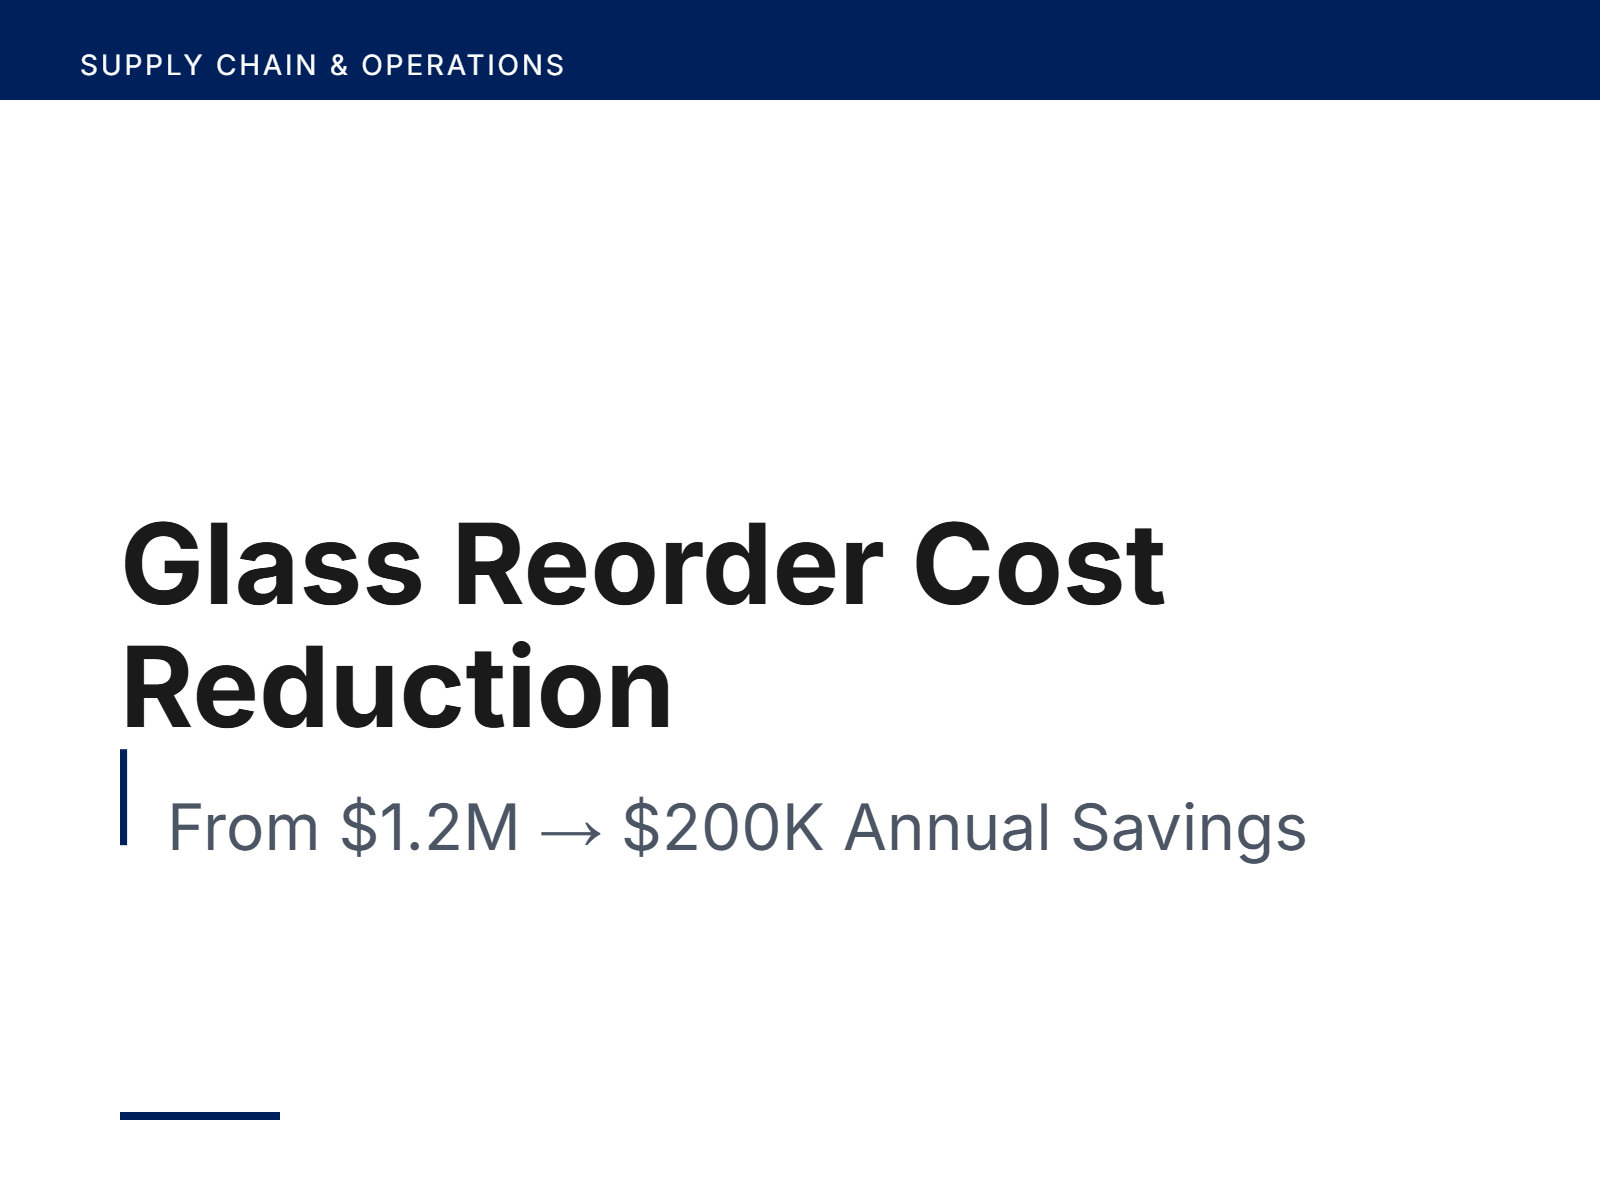
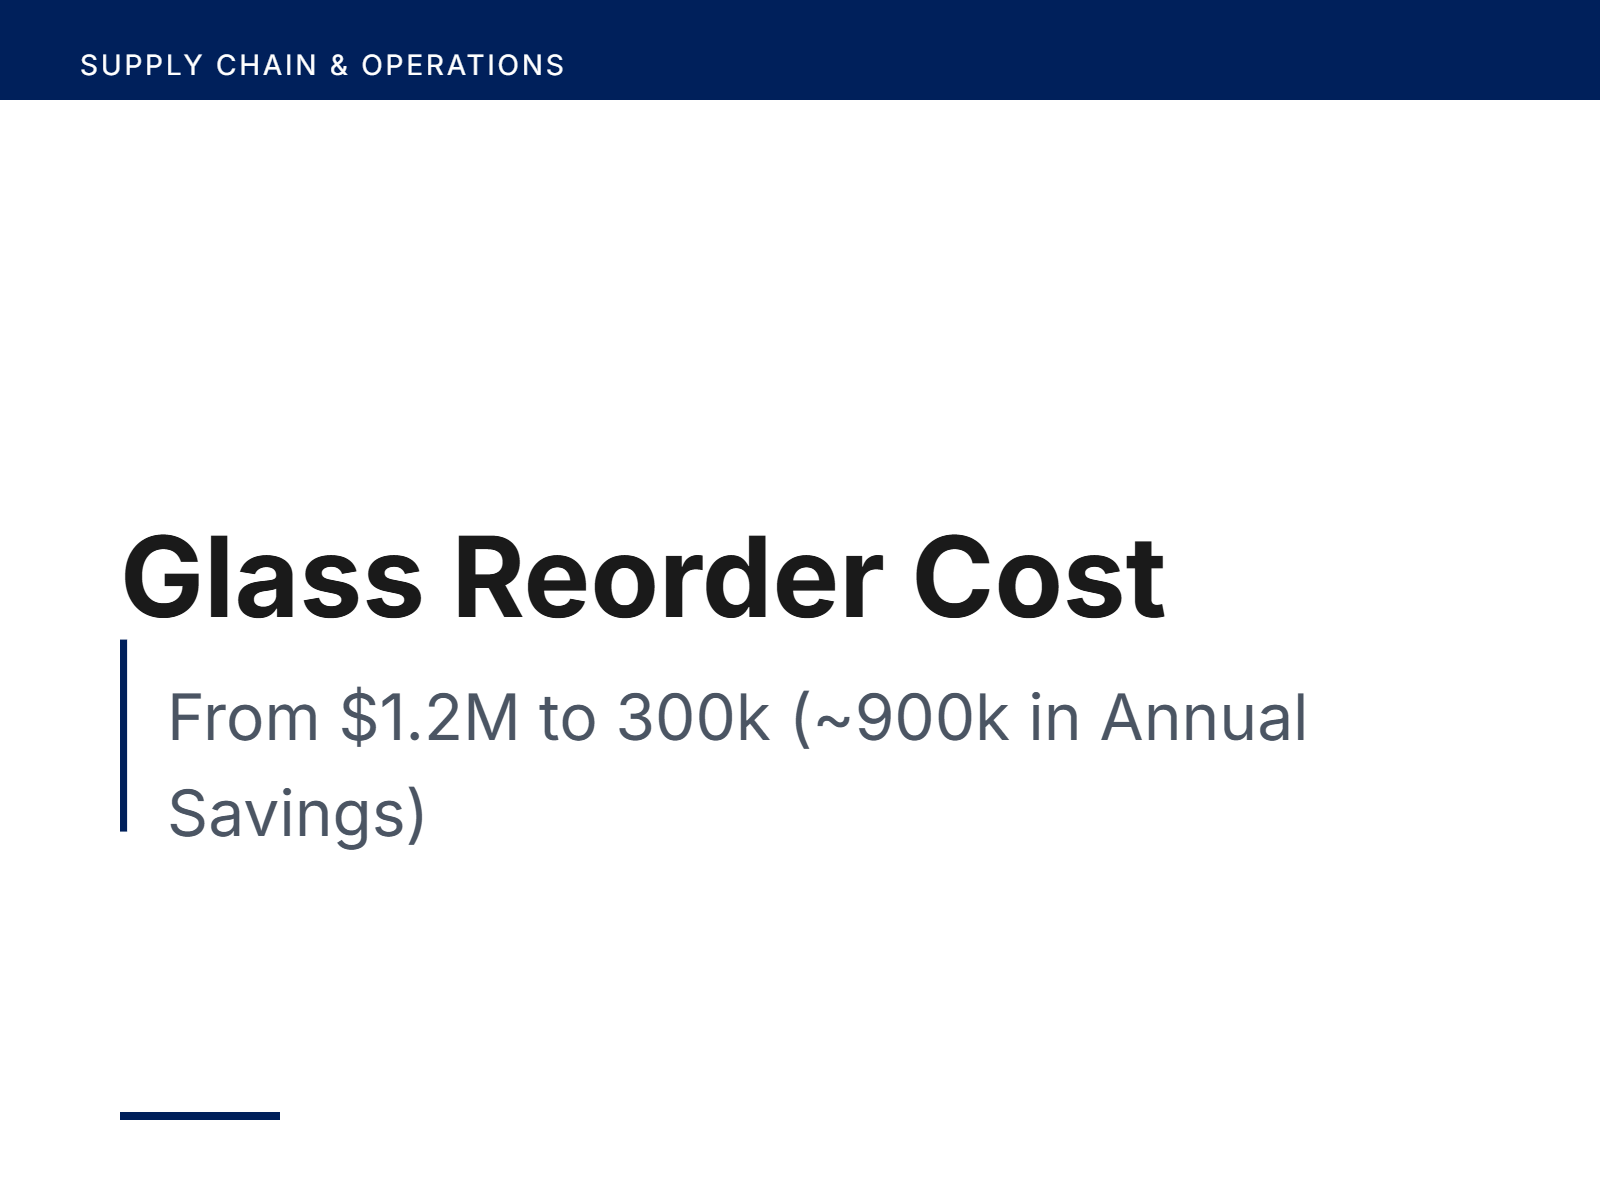
Fix glass reorder cost consistency

Changed region(s): [[0.0625, 0.4317, 0.8125, 0.6167], [0.0938, 0.6475, 0.8125, 0.7092]]

diff --git a/app/data/projects.js b/app/data/projects.js
@@ -1,7 +1,7 @@
 export const projects = [
       {
     title: "Glass Reorder Cost Reduction",
-    description: "From $1.2M → $200K annual savings",
+    description: "From $1.2M → $300K annual savings(~75% reduction)",
     thumbnail: "/projects/thumbnails/glass-reorder-cost.png",
     pdf: "/projects/case-studies/glass-reorder-cost.pdf",
   },
